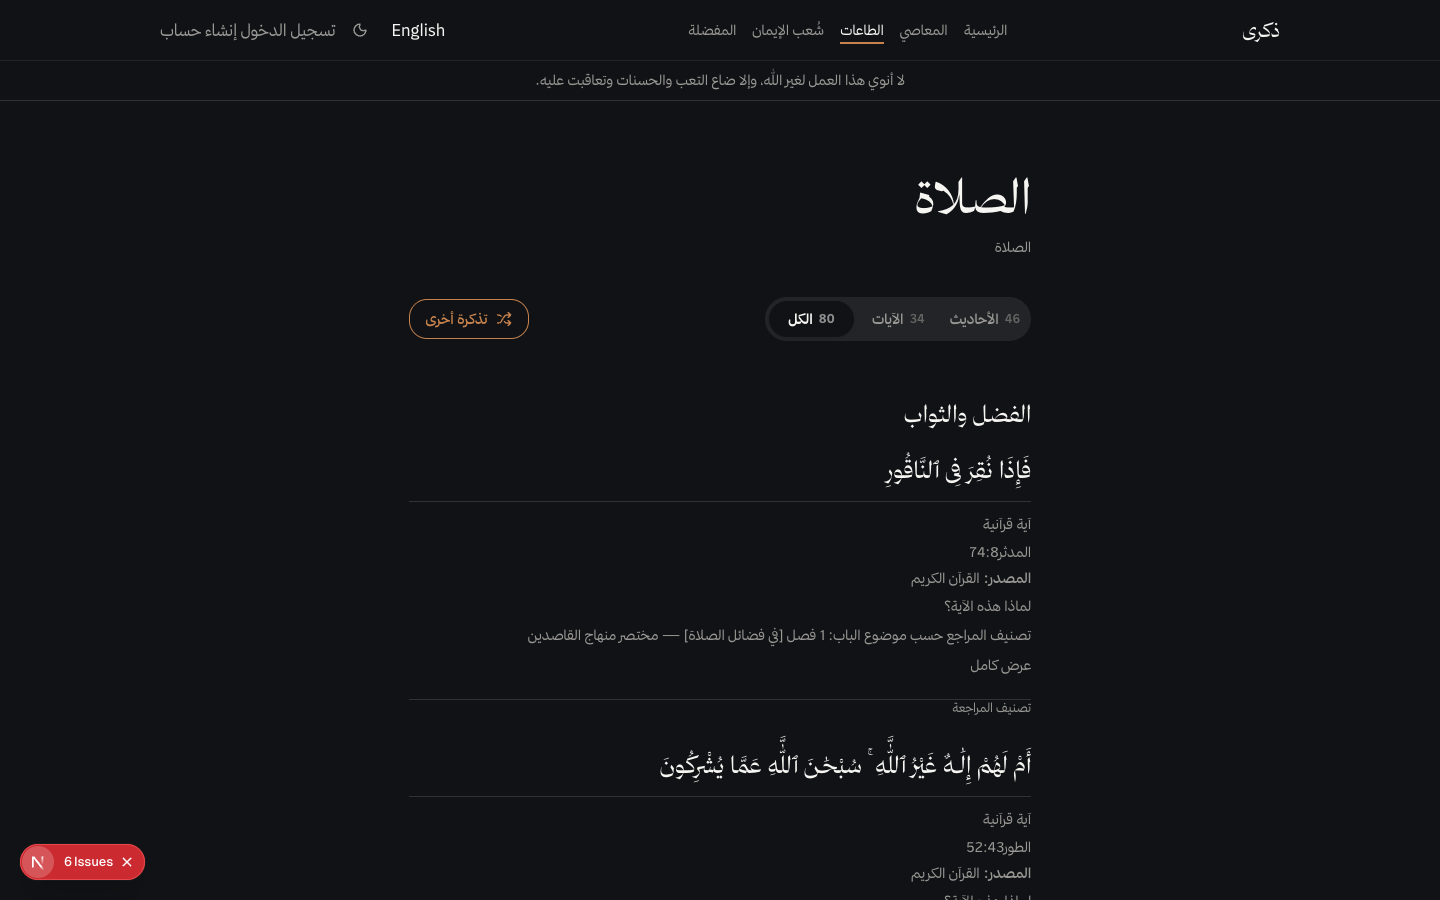
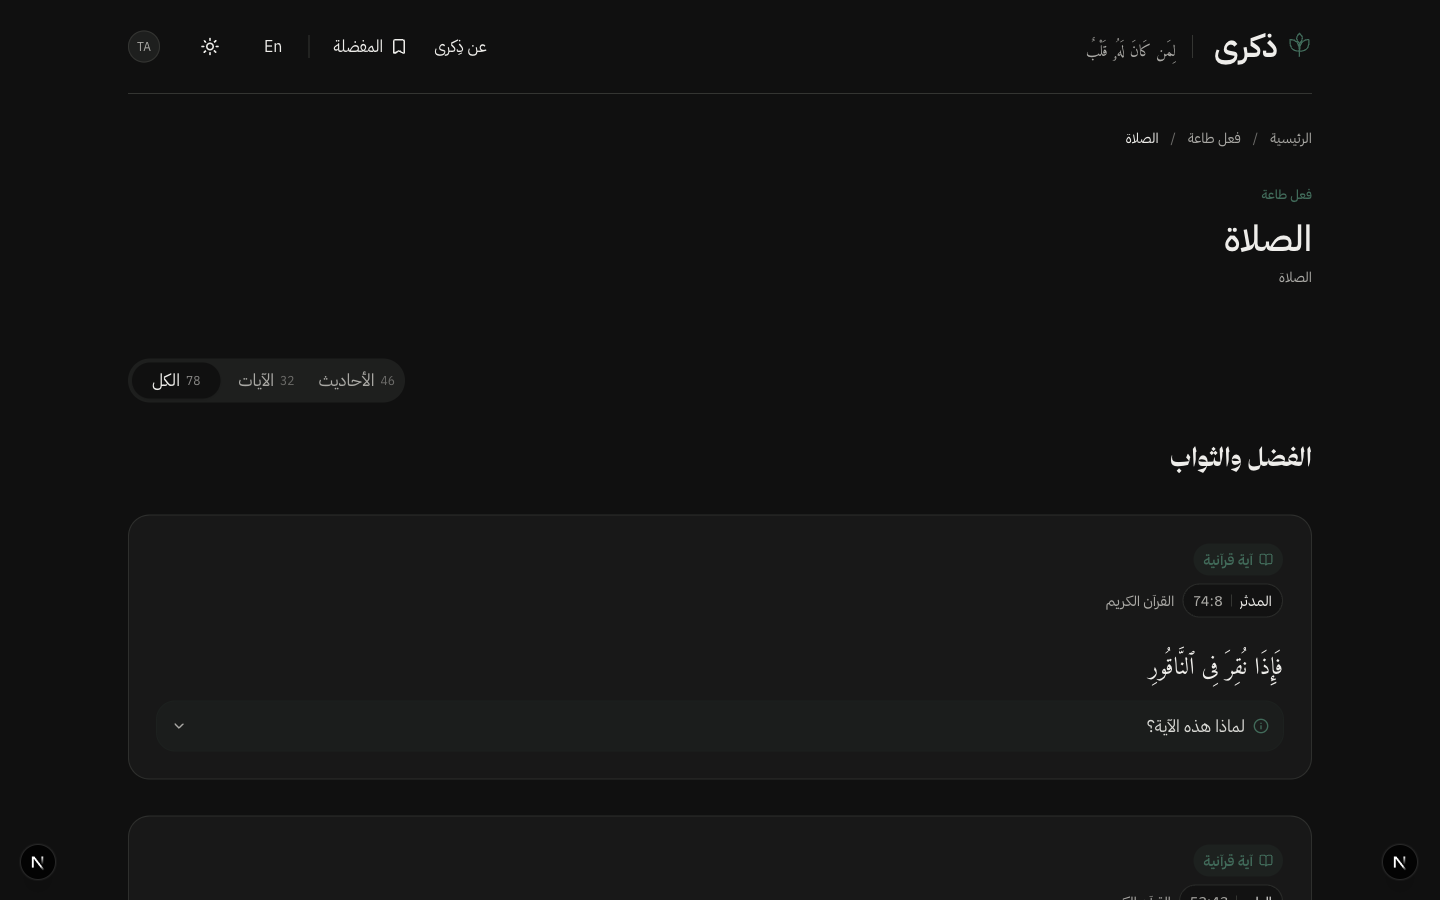
docs: refresh prayer pair screenshots and public tab counts
Record الكل/الآيات/الأحاديث as 78/32/46 after the Kabair فصل ayah drop, and replace the 1440/390 light-dark topic shots for both pair URLs.

diff --git a/docs/taxonomy/apply-report.md b/docs/taxonomy/apply-report.md
@@ -508,13 +508,20 @@ Muslim 82 TAKHRIJ to `salat-fi-jamaah` came from a false HadithMatch (Riyad «ب
 
 ### Prayer pair (`tark-as-salah` ↔ `salah`, title «الصلاة»)
 
-Public ACCEPTED texts after dedupe by quote id:
+Public pair tabs on the page (deduped; SAHIH/HASAN public filter), after steps 4b–4c:
+
+| Tab | Count |
+| --- | ---: |
+| الكل | 78 |
+| الآيات | 32 |
+| الأحاديث | 46 |
+
+ACCEPTED rows in DB (all grades, before public filter), after 4c verse removals:
 
 | Part | Total | QURAN_VERSE | HADITH | BOOK_EXCERPT |
 | --- | ---: | ---: | ---: | ---: |
-| ما جاء في التحذير (AVOID) | 95 | 20 | 72 | 3 |
-| الفضل والثواب (DO, deduped) | 170 | 14 | 156 | 0 |
-| Pair total (deduped) | 265 |  |  |  |
+| ما جاء في التحذير (AVOID) | 93 | 18 | 72 | 3 |
+| الفضل والثواب (DO) | 171 | 14 | 157 | 0 |
 
 #### Public Sahihayn hadith on the pair (book + number)
 
@@ -593,7 +600,7 @@ Public ACCEPTED texts after dedupe by quote id:
 
 ### Screenshots
 
-`docs/design/after/topics/`:
+Refreshed after steps 4b–4d into `docs/design/after/topics/` (1440×900 and 390×844, light + dark):
 
 - `tark-as-salah-1440-light.png` / `tark-as-salah-1440-dark.png`
 - `tark-as-salah-390-light.png` / `tark-as-salah-390-dark.png`
